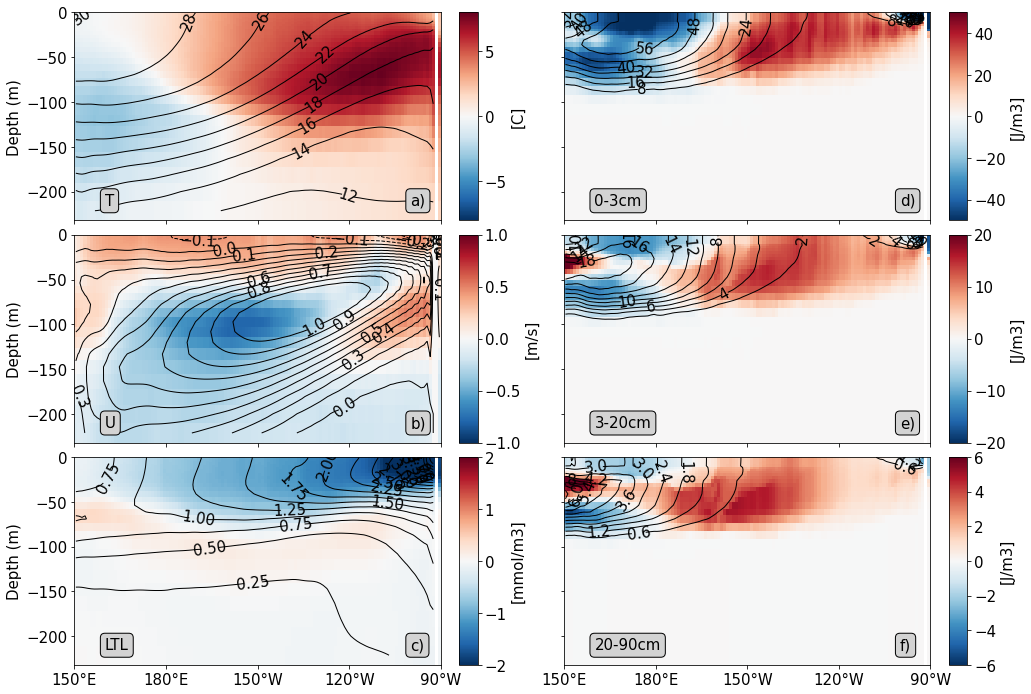
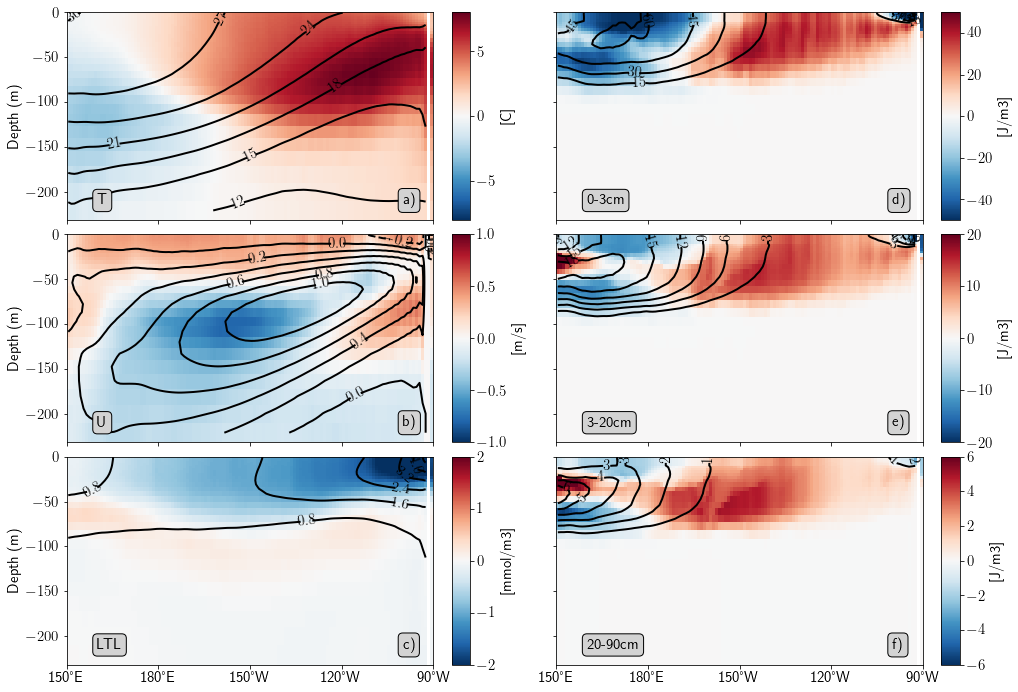
Update figures

diff --git a/scripts/new-97/plot_profiles_mean_ond97.py b/scripts/new-97/plot_profiles_mean_ond97.py
@@ -72,6 +72,9 @@ lontext = 260
 ztext = -210
 lontext2 = 160
 
+ncontours = 6
+cw = 2
+
 dictext2 = dict(ha='left', va='center', bbox=dicttext, zorder=20)
 
 # thetao (0)
@@ -87,7 +90,7 @@ clim = clim['thetao'].to_masked_array()
 anom = xr.open_dataset('data/composite_thetao_profile.nc')
 anom = anom['thetao'].values
 
-cl = ax.contour(lon0[iok], -depth[:-1], clim[:-1, iok], 11, colors='k')
+cl = ax.contour(lon0[iok], -depth[:-1], clim[:-1, iok], ncontours, colors='k', linewidths=cw)
 plt.clabel(cl)
 cs = ax.pcolormesh(lon0[iok], -depth[:-1], anom[:-1, iok], shading='auto')
 cb = plt.colorbar(cs, cbar_axes[cpt])
@@ -106,8 +109,8 @@ clim = clim['uo'].to_masked_array()
 anom = xr.open_dataset('data/composite_uo_profile.nc')
 anom = anom['uo'].to_masked_array()
 
-step = 0.1
-cl = ax.contour(lon0[iok], -depth[:-1], clim[:-1, iok], colors='k', levels = np.arange(-1, 1 + step, step))
+step = 0.2
+cl = ax.contour(lon0[iok], -depth[:-1], clim[:-1, iok], colors='k', levels = np.arange(-1, 1 + step, step), linewidths=cw)
 plt.clabel(cl)
 cs = ax.pcolormesh(lon0[iok], -depth[:-1], anom[:-1, iok], shading='auto')
 cb = plt.colorbar(cs, cbar_axes[cpt])
@@ -135,7 +138,7 @@ for v in varlist:
         anom += tempanom[v].to_masked_array()
 
 step = 0.05
-cl = ax.contour(lon0[iok], -depth[:-1], clim[:-1, iok], 21, colors='k')
+cl = ax.contour(lon0[iok], -depth[:-1], clim[:-1, iok], ncontours, colors='k', linewidths=cw)
 plt.clabel(cl)
 cs = ax.pcolormesh(lon0[iok], -depth[:-1], anom[:-1, iok], shading='auto')
 cb = plt.colorbar(cs, cbar_axes[cpt])
@@ -157,7 +160,7 @@ print(clim.shape)
 cpt = 1
 ax = axgr[cpt]
 step = 0.05
-cl = ax.contour(lon0[iok], -depth[:-1], clim[:, :, 0].T[:-1, iok], 11, colors='k')
+cl = ax.contour(lon0[iok], -depth[:-1], clim[:, :, 0].T[:-1, iok], ncontours, colors='k', linewidths=cw)
 plt.clabel(cl)
 cs = ax.pcolormesh(lon0[iok], -depth[:-1], anom[:, :, 0].T[:-1, iok], shading='auto')
 cb = plt.colorbar(cs, cbar_axes[cpt])
@@ -170,7 +173,7 @@ ax.set_ylabel('Depth (m)')
 cpt = 3
 ax = axgr[cpt]
 step = 0.05
-cl = ax.contour(lon0[iok], -depth[:-1], clim[:, :, 1].T[:-1, iok], 11, colors='k')
+cl = ax.contour(lon0[iok], -depth[:-1], clim[:, :, 1].T[:-1, iok], ncontours, colors='k', linewidths=cw)
 plt.clabel(cl)
 cs = ax.pcolormesh(lon0[iok], -depth[:-1], anom[:, :, 1].T[:-1, iok], shading='auto')
 cb = plt.colorbar(cs, cbar_axes[cpt])
@@ -183,7 +186,7 @@ ax.set_ylabel('Depth (m)')
 cpt = 5
 ax = axgr[cpt]
 step = 0.05
-cl = ax.contour(lon0[iok], -depth[:-1], clim[:, :, 2].T[:-1, iok], 11, colors='k')
+cl = ax.contour(lon0[iok], -depth[:-1], clim[:, :, 2].T[:-1, iok], ncontours, colors='k', linewidths=cw)
 plt.clabel(cl)
 cs = ax.pcolormesh(lon0[iok], -depth[:-1], anom[:, :, 2].T[:-1, iok], shading='auto')
 cb = plt.colorbar(cs, cbar_axes[cpt])
@@ -200,3 +203,6 @@ ax.set_xticks(xticks)
 ax.xaxis.set_major_formatter(formatter0)
 
 plt.savefig('forage_mean_ond97.png', bbox_inches='tight', facecolor='white')
+# -
+
+

diff --git a/scripts/new-97/plot_maps_mean_anom_ond.py b/scripts/new-97/plot_maps_mean_anom_ond.py
@@ -6,7 +6,7 @@
 #       extension: .py
 #       format_name: light
 #       format_version: '1.5'
-#       jupytext_version: 1.11.3
+#       jupytext_version: 1.13.7
 #   kernelspec:
 #     display_name: Python 3 (ipykernel)
 #     language: python
@@ -118,7 +118,7 @@ latf
 proj = ccrs.PlateCarree(central_longitude=180)
 proj2 = ccrs.PlateCarree(central_longitude=0)
 
-tmask_noatl = xr.open_dataset('corrected_mask_noatl.nc')
+tmask_noatl = xr.open_dataset('data/corrected_mask_noatl.nc')
 tmask_noatl = tmask_noatl['tmask'].values
 tmask_noatl = (tmask_noatl == tmask_noatl.min()).astype(int)
 plt.imshow(tmask_noatl)
@@ -218,7 +218,7 @@ for l in range(3):
     ltemp = float(temp.l)
     tpclim = np.log10(temp.to_masked_array())
     
-    cl = ax.tricontour(lonout, latout, tpclim[imask], colors='k', linewidths=1, levels=levels)
+    cl = ax.tricontour(lonout, latout, tpclim[imask], colors='k', linewidths=2, levels=levels)
     plt.clabel(cl)
     
     temp = varanom.isel(l=l)
@@ -266,7 +266,7 @@ for l in range(3):
     ltemp = float(temp.l)
     tpclim = np.log10(temp.to_masked_array())
     
-    cl = ax.tricontour(lonout, latout, tpclim[imask], colors='k', linewidths=1, levels=levels)
+    cl = ax.tricontour(lonout, latout, tpclim[imask], colors='k', linewidths=2, levels=levels)
     plt.clabel(cl)
     
     temp = cov.isel(l=l)
